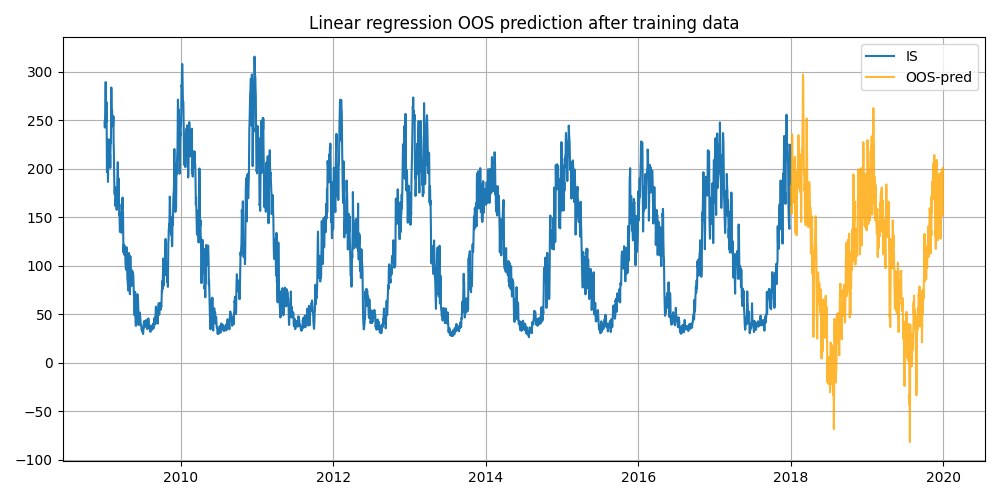
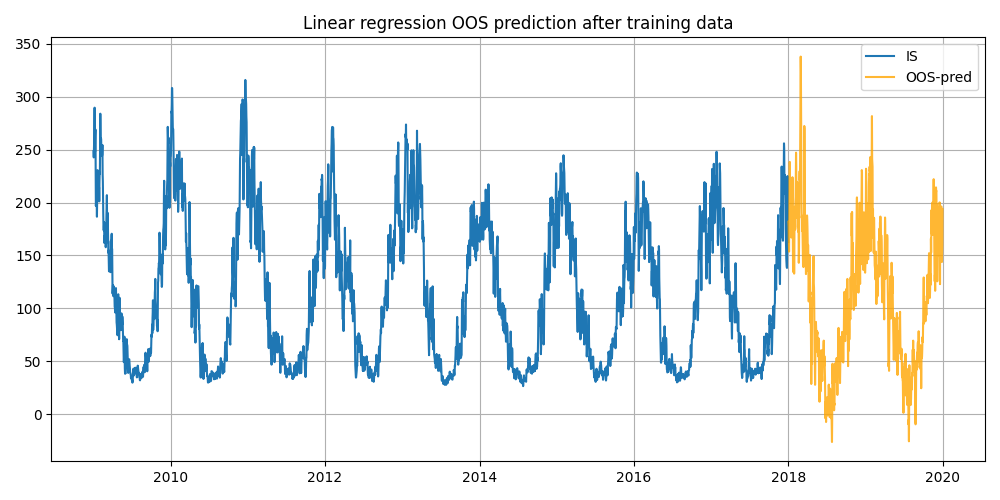
linear: feature importance analysis

diff --git a/data_exploration.py b/data_exploration.py
@@ -10,6 +10,7 @@ import datetime as dt
 from matplotlib import pyplot as plt
 from sklearn.linear_model import Lasso
 from sklearn.model_selection import GridSearchCV, KFold
+from sklearn.preprocessing import StandardScaler
 from enum import Enum
 from IPython.display import display
 
@@ -117,6 +118,77 @@ x_mean = np.mean(X, axis=0).copy()
 
 print("Shape of the final feature set :", X.shape)
 
+# %% Feature Importance Analysis with Standardized Features
+
+print("\n" + "="*60)
+print("Feature Importance Analysis (with standardized features)")
+print("="*60)
+
+# Copy X to avoid interfering with training data
+X_analysis = X.copy()
+
+# Get feature names from the train dataframe
+feature_names = [col for col in train.columns if col not in [TARGET_COL, DATE_COL]]
+
+# Standardize features (mean=0, std=1)
+scaler = StandardScaler()
+X_standardized = scaler.fit_transform(X_analysis)
+
+# Fit Lasso with cross-validation on standardized data
+param_grid_analysis = {
+    'alpha': np.logspace(-4, 2, 50)
+}
+
+kfold_analysis = KFold(n_splits=5, shuffle=True, random_state=42)
+lasso_analysis = Lasso(fit_intercept=True, max_iter=10000)
+
+grid_search_analysis = GridSearchCV(
+    estimator=lasso_analysis,
+    param_grid=param_grid_analysis,
+    cv=kfold_analysis,
+    scoring='neg_root_mean_squared_error',
+    n_jobs=-1,
+    verbose=0
+)
+
+grid_search_analysis.fit(X_standardized, y)
+
+# Get the best model and coefficients
+best_lasso = grid_search_analysis.best_estimator_
+coefficients = best_lasso.coef_
+
+# Create feature importance table
+feature_importance = pd.DataFrame({
+    'feature': feature_names,
+    'coefficient': coefficients,
+    'abs_coefficient': np.abs(coefficients)
+})
+
+# Add indicator for retained features (non-zero coefficients)
+feature_importance['retained'] = feature_importance['abs_coefficient'] > 0
+
+# Sort by absolute coefficient value
+feature_importance = feature_importance.sort_values('abs_coefficient', ascending=False)
+
+print(f"\nBest alpha for standardized features: {grid_search_analysis.best_params_['alpha']:.6f}")
+print(f"Best CV RMSE: {-grid_search_analysis.best_score_:.4f}")
+print(f"\nNumber of retained features: {feature_importance['retained'].sum()} / {len(feature_names)}")
+print(f"Number of zeroed-out features: {(~feature_importance['retained']).sum()}")
+
+print("\n--- Top 20 Most Important Features (by absolute coefficient) ---")
+display(feature_importance.head(20))
+
+print("\n--- All Retained Features ---")
+retained_features = feature_importance[feature_importance['retained']]
+display(retained_features)
+
+print("="*60 + "\n")
+
+retained_features["feature category"] = retained_features["feature"].str.split("_").apply(lambda x: x[0])
+retained_features.groupby("feature category")["abs_coefficient"].mean().sort_values(ascending=False).to_frame()
+
+# %% Main Model Training (on original scale)
+
 # Define parameter grid for Lasso regularization
 param_grid = {
     'alpha': np.logspace(-4, 2, 50)  # Test alpha values from 0.0001 to 100
@@ -181,24 +253,10 @@ print("Which is exactly two years.")
 dates_test = [dt.date.fromisoformat(d) for d in test[DATE_COL].to_numpy()]
 
 # %%
-X_test = test[features].to_numpy()
-
-# %% Relative difference of features
-
-# var_diff = (np.var(X, axis=0) - np.var(X_test, axis=0)) / np.var(X, axis=0)
-# var_diff = pd.Series(var_diff, index=features)
-# var_diff = var_diff.loc[var_diff.abs() > .05]
-# colours = var_diff.apply(lambda v : 'green' if v > 0. else 'red')
-# var_diff.sort_values().plot(
-#     kind='bar',
-#     title='OOS features, variance, relative difference',
-#     color=var_diff.sort_values().index.to_series().map(colours).to_list(),
-#     alpha=.5
-#     )
-
-# plt.tight_layout()
-
-# plt.savefig(IMG_FOLDER / 'oos_var_diff.png')
+test = pl.from_dataframe(test)
+for c in temp_features:
+    test = test.with_columns((np.log((pl.col(c) + TEMP_C_TO_K) / TEMP_C_TO_K)).alias(c+"_logk"))
+X_test = test.to_pandas()[features+log_k_temp_features].to_numpy()
 
 # %% 
 

diff --git a/README.md b/README.md
@@ -68,7 +68,7 @@ where the choice of kernel is paramount to learning the periodicity correctly.
 
 - 5-fold cross-validation applied to tune regularisation parameter.
 - Feature engineer : 
-    - log kelvin temperature
+    - log kelvin temperature (15 % improvement in-sample RMSE)
 
 *In-sample prediction :*
 
@@ -81,6 +81,18 @@ where the choice of kernel is paramount to learning the periodicity correctly.
 > [!WARNING]
 > The predicted demand is negative on many occurences.
 
+The linear regression, while regularised, seems to have too much variance
+and is sensitive to outliers.
+
+The in sample RMSE is approximately 14.
+
+A feature importance analysis after standardising the input data shows 
+temperature data is by far the most correlated to the domestic gas demand :
+
+![image](img/lin_feature_importance.png)
+
+where the absolute coefficient values have been averaged by category 
+(including log temperature, day and night mixed).
 
 ### Gradient Boost Regressor prediction
 
